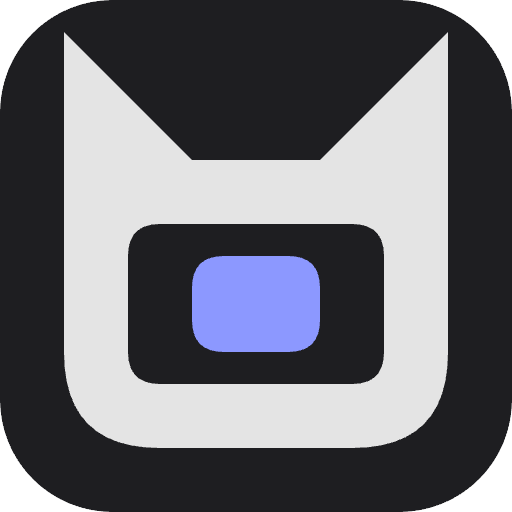
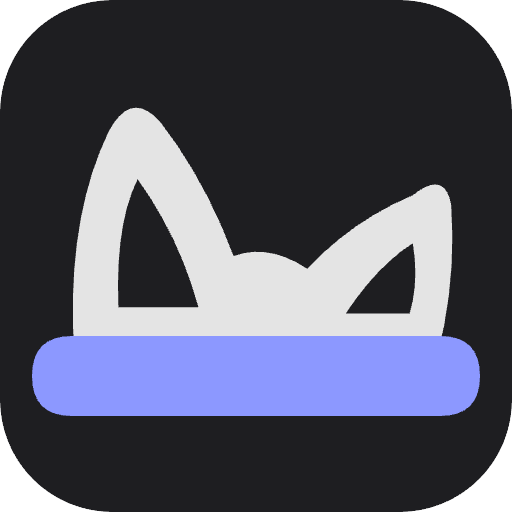
feat(brand): draw the peeking-ears mark
The cat's head with a window for a face read as a generic bot icon.
The mark is now two ears peeking over the cord, mid-glance: the near
ear upright, the far one smaller and tipped outward, both rising from
behind the cord in the accent.

- mark-paths.ts holds the crown (both ears joined by the curve of the
  head), the inner ears and the cord. The mark has two optical sizes:
  from 48px up the inner ears are cut out, which is what makes the
  shapes read as ears; below that they would blur, so the plain crown
  is drawn. earsPath(size) chooses.
- markNode draws the size it is asked for, so the favicon's 16 and 32
  are the crown and its 48, the app icons, the maskable icon and the
  Apple icon are notched. The icons are regenerated on the graphite
  tile.
- The sidebar and toolbar mark draws the crown, and swaps in the
  notched ears by CSS where the screen's density gives them 48 device
  pixels.
- icon.svg, drawn by browsers at tab size, is the crown.
- The OG card's mark follows markNode, and DESIGN_REVISION moves to 3
  so every card URL changes.

Verified: the 16px pixel spec checks the near ear's height, the far
ear lower, open space between them and at the crown's dip, the head
below it, no inner ear, the cord, and nothing below it; another checks
the inner ear is cut out at 48px. Two e2e tests check the sidebar mark
shows the crown at 1x and the notched ears at 3x. lint, format:check,
typecheck, test:coverage, build and test:e2e pass.

diff --git a/src/lib/brand/mark.spec.ts b/src/lib/brand/mark.spec.ts
@@ -1,10 +1,10 @@
 import { describe, expect, it } from 'vitest'
 import { Root } from 'meo-canvas'
 import { markNode } from '@/lib/brand/mark'
-import { MARK_DARK, MARK_PATHS, markSvg } from '@/lib/brand/mark-paths'
+import { earsPath, MARK_DARK, MARK_PATHS, markSvg, NOTCH_MIN_SIZE } from '@/lib/brand/mark-paths'
 
-async function pixels16() {
-  const canvas = await Root({ width: 16, height: 16, children: markNode(16) })
+async function pixels(size: number) {
+  const canvas = await Root({ width: size, height: size, children: markNode(size) })
   try {
     return await canvas.toBuffer('raw')
   } finally {
@@ -12,34 +12,55 @@ async function pixels16() {
   }
 }
 
+const hex = (colour: string) => [1, 3, 5].map(i => parseInt(colour.slice(i, i + 2), 16))
+const near = (a: number[], b: number[]) => a.every((channel, i) => Math.abs(channel - b[i]) <= 8)
+const tile = hex(MARK_DARK.tile)
+const accent = hex(MARK_DARK.accent)
+
 describe('the mark at 16px', () => {
   // Each point sits in the middle of a grid square, so it lands on one whole pixel.
   const at = (raw: Uint8Array, x: number, y: number) => [...raw.subarray((y * 16 + x) * 4, (y * 16 + x) * 4 + 3)]
-  const hex = (colour: string) => [1, 3, 5].map(i => parseInt(colour.slice(i, i + 2), 16))
-  const near = (a: number[], b: number[]) => a.every((channel, i) => Math.abs(channel - b[i]) <= 8)
 
-  it('keeps the ears, the window and the core apart', async () => {
-    const raw = await pixels16()
-    const tile = hex(MARK_DARK.tile)
-    const accent = hex(MARK_DARK.accent)
-    const ink = at(raw, 2, 6)
+  it('reads as two ears of different heights behind the cord, not one shape', async () => {
+    const raw = await pixels(16)
+    const ink = at(raw, 4, 6)
 
     expect(near(ink, tile)).toBe(false)
-    expect(near(at(raw, 2, 2), ink)).toBe(true) // left ear
-    expect(near(at(raw, 13, 2), ink)).toBe(true) // right ear
-    expect(near(at(raw, 8, 2), tile)).toBe(true) // the crown between them
-    expect(near(at(raw, 4, 9), tile)).toBe(true) // the window
-    expect(near(at(raw, 7, 9), accent)).toBe(true) // the core
-    expect(near(at(raw, 8, 13), ink)).toBe(true) // the chin
+    expect(near(at(raw, 4, 4), ink)).toBe(true) // the near ear, standing tall
+    expect(near(at(raw, 4, 3), tile)).toBe(false) // …up to its tip
+    expect(near(at(raw, 12, 8), ink)).toBe(true) // the far ear, lower
+    expect(near(at(raw, 12, 4), tile)).toBe(true) // …with nothing above it at the near ear's height
+    expect(near(at(raw, 8, 3), tile)).toBe(true) // open sky between the ears
+    expect(near(at(raw, 8, 6), tile)).toBe(true) // the dip of the crown
+    expect(near(at(raw, 8, 9), ink)).toBe(true) // the head, below the dip
+    expect(near(at(raw, 4, 8), ink)).toBe(true) // no inner ear at this size
+    expect(near(at(raw, 8, 11), accent)).toBe(true) // the cord
+    expect(near(at(raw, 8, 14), tile)).toBe(true) // nothing below the cord
+  })
+})
+
+describe('the optical sizes', () => {
+  it('cuts the inner ears out from NOTCH_MIN_SIZE up', async () => {
+    const size = NOTCH_MIN_SIZE
+    const raw = await pixels(size)
+    // The middle of the near inner ear, at grid (4.7, 8.2).
+    const x = Math.floor(4.7 * (size / 16))
+    const y = Math.floor(8.2 * (size / 16))
+    expect(near([...raw.subarray((y * size + x) * 4, (y * size + x) * 4 + 3)], tile)).toBe(true)
+  })
+
+  it('draws the plain crown below NOTCH_MIN_SIZE and the notched ears from it', () => {
+    expect(earsPath(NOTCH_MIN_SIZE - 1)).toBe(MARK_PATHS.crown)
+    expect(earsPath(NOTCH_MIN_SIZE)).toBe(MARK_PATHS.crown + MARK_PATHS.inner)
   })
 })
 
 describe('markSvg', () => {
-  it('draws the same paths, and follows the colour scheme', () => {
+  it('draws the tab-size crown and the cord, and follows the colour scheme', () => {
     const svg = markSvg()
-    expect(svg).toContain(`d="${MARK_PATHS.head}"`)
-    expect(svg).toContain(`d="${MARK_PATHS.core}"`)
-    expect(svg).toContain('fill-rule="evenodd"')
+    expect(svg).toContain(`d="${MARK_PATHS.crown}"`)
+    expect(svg).toContain(`d="${MARK_PATHS.cord}"`)
+    expect(svg).not.toContain(MARK_PATHS.inner)
     expect(svg).toContain('@media (prefers-color-scheme:dark)')
   })
 })

diff --git a/src/lib/brand/mark-paths.ts b/src/lib/brand/mark-paths.ts
@@ -1,18 +1,33 @@
 /**
- * The mark: a cat's head whose face is a window, with the accent core inside. Drawn on a 16-unit grid
- * with whole-unit edges, so 16, 32, 48, 64, 192 and 512 land on whole pixels and the 16px favicon
- * keeps its ears, window and core apart.
+ * The mark: a cat's two ears peeking over the cord, mid-glance. The near ear stands upright, the far
+ * one is smaller and tipped outward, and both rise from behind the cord. Drawn on a 16-unit grid, so
+ * 16, 32, 48, 64, 192 and 512 land on whole pixels.
+ *
+ * It has two optical sizes. From 48px up the inner ears are cut out, which is what makes the shapes
+ * read as ears; below that the cut-outs would blur, so the crown's silhouette is drawn plain.
  *
  * Data only, so pages can draw it as inline SVG without loading meo-canvas; the meo-canvas node that
  * the icons and OG cards draw is in mark.ts.
  */
 export const MARK_VIEWBOX = [0, 0, 16, 16] as const
 
-/** The head with its window cut out (even-odd), and the core that sits in the window. */
+/** The smallest size, in device pixels, that draws the inner ears. */
+export const NOTCH_MIN_SIZE = 48
+
 export const MARK_PATHS = {
-  head: 'M2 11V1L6 5H10L14 1V11Q14 14 11 14H5Q2 14 2 11ZM5 7H11Q12 7 12 8V11Q12 12 11 12H5Q4 12 4 11V8Q4 7 5 7Z',
-  core: 'M7 8H9Q10 8 10 9V10Q10 11 9 11H7Q6 11 6 10V9Q6 8 7 8Z',
+  /** Both ears, joined by the curve of the head's crown between them. */
+  crown:
+    'M2.4 12Q1.9 7.2 3.4 4.1Q4.1 2.8 5 3.8Q6.4 5.6 7.3 8Q8.4 7.6 9.6 8.4Q11 6.9 12.9 6.1Q13.9 5.3 14.1 6.4Q14.3 9.3 13.4 12Z',
+  /** The inner ears, cut out of the crown (even-odd) at the larger size. */
+  inner: 'M3.7 9.6Q3.6 7 4.3 5.6Q5.6 7.4 6.2 9.6ZM10.8 9.8Q11.8 8.3 12.9 7.6Q13.1 8.8 12.8 9.8Z',
+  /** The cord they peek over, drawn in front of them. */
+  cord: 'M2.25 10.5H13.75Q15 10.5 15 11.75Q15 13 13.75 13H2.25Q1 13 1 11.75Q1 10.5 2.25 10.5Z',
 } as const
+
+/** The ears' path for a size in device pixels: notched from NOTCH_MIN_SIZE up, the plain crown below. */
+export function earsPath(size: number): string {
+  return size >= NOTCH_MIN_SIZE ? MARK_PATHS.crown + MARK_PATHS.inner : MARK_PATHS.crown
+}
 
 /** Tile corner radius, in grid units. */
 export const MARK_TILE_RADIUS = 3.5
@@ -23,20 +38,20 @@ export interface MarkColours {
   accent: string
 }
 
-/** The dark tile every raster icon uses: it holds on light and dark tab strips alike. */
+/** The graphite tile the favicon and app icons use: it holds on light and dark tab strips alike. */
 export const MARK_DARK: MarkColours = { tile: '#1E1E21', ink: 'rgba(255,255,255,0.88)', accent: '#8C98FF' }
 
 /**
- * The mark as SVG, following the reader's colour scheme: ink and accent swap to the light palette,
- * and the tile is left out so the browser's own tab colour shows around the head.
+ * The mark as SVG, following the reader's colour scheme, for the favicon: browsers draw it at tab
+ * size, so it is the plain crown. The tile is left out so the tab's own colour shows around it.
  */
 export function markSvg(): string {
   return [
     `<svg xmlns="http://www.w3.org/2000/svg" viewBox="${MARK_VIEWBOX.join(' ')}">`,
-    '<style>.h{fill:#161618;fill-opacity:.88}.c{fill:#4B5BD7}',
-    '@media (prefers-color-scheme:dark){.h{fill:#fff}.c{fill:#8C98FF}}</style>',
-    `<path class="h" fill-rule="evenodd" d="${MARK_PATHS.head}"/>`,
-    `<path class="c" d="${MARK_PATHS.core}"/>`,
+    '<style>.e{fill:#161618;fill-opacity:.88}.c{fill:#4B5BD7}',
+    '@media (prefers-color-scheme:dark){.e{fill:#fff}.c{fill:#8C98FF}}</style>',
+    `<path class="e" d="${MARK_PATHS.crown}"/>`,
+    `<path class="c" d="${MARK_PATHS.cord}"/>`,
     '</svg>',
   ].join('')
 }

diff --git a/src/components/shell/brand.ts b/src/components/shell/brand.ts
@@ -1,10 +1,27 @@
-import { Span, Svg, SvgPath } from '@meonode/ui'
+import { Span, Svg, SvgPath, type ThemedCSSObject } from '@meonode/ui'
 import { focusCss } from '@/lib/design/css'
-import { MARK_PATHS, MARK_VIEWBOX } from '@/lib/brand/mark-paths'
+import { earsPath, MARK_PATHS, MARK_VIEWBOX, NOTCH_MIN_SIZE } from '@/lib/brand/mark-paths'
 import { Link } from '@/components/shell/links'
 
-/** The mark, drawn in the current palette's ink and accent. */
+/**
+ * The mark, drawn in the current palette's ink and accent, at the optical size for the device
+ * pixels it covers: below NOTCH_MIN_SIZE the plain crown, swapped for the notched ears on a screen
+ * dense enough to draw them.
+ */
 export function Mark(size = 20) {
+  const ears = (d: string, key: string, css?: ThemedCSSObject) =>
+    SvgPath({ key, d, fillRule: 'evenodd', fill: 'theme.ink.primary', css })
+  const density = NOTCH_MIN_SIZE / size
+  const layers =
+    size >= NOTCH_MIN_SIZE
+      ? [ears(earsPath(size), 'ears')]
+      : [
+          ears(MARK_PATHS.crown, 'crown', { [`@media (min-resolution: ${density}dppx)`]: { display: 'none' } }),
+          ears(earsPath(NOTCH_MIN_SIZE), 'notched', {
+            display: 'none',
+            [`@media (min-resolution: ${density}dppx)`]: { display: 'inline' },
+          }),
+        ]
   return Svg({
     width: size,
     height: size,
@@ -12,10 +29,7 @@ export function Mark(size = 20) {
     'aria-hidden': true,
     focusable: false,
     flexShrink: 0,
-    children: [
-      SvgPath({ key: 'head', d: MARK_PATHS.head, fillRule: 'evenodd', fill: 'theme.ink.primary' }),
-      SvgPath({ key: 'core', d: MARK_PATHS.core, fill: 'theme.accent.default' }),
-    ],
+    children: [...layers, SvgPath({ key: 'cord', d: MARK_PATHS.cord, fill: 'theme.accent.default' })],
   })
 }
 

diff --git a/e2e/shell.spec.ts b/e2e/shell.spec.ts
@@ -1,4 +1,4 @@
-import { expect, test } from '@playwright/test'
+import { expect, test, type Page } from '@playwright/test'
 
 test('the first Tab reaches the skip link, which leads to the content', async ({ page }) => {
   await page.goto('/')
@@ -86,4 +86,30 @@ test.describe('on a phone', () => {
     await expect(sheet).toBeHidden()
     await expect(open).toBeFocused()
   })
+})
+
+test.describe('the mark in the sidebar', () => {
+  // The visible ears path: the plain crown, or the crown with the inner ears cut out.
+  const visibleEars = (page: Page) =>
+    page
+      .locator('aside a[href="/"] svg path[fill-rule="evenodd"]')
+      .evaluateAll(paths =>
+        paths.filter(path => getComputedStyle(path).display !== 'none').map(path => path.getAttribute('d') ?? ''),
+      )
+
+  for (const [scale, notched] of [
+    [1, false],
+    [3, true],
+  ] as const) {
+    test(`draws the ${notched ? 'notched' : 'plain'} ears at ${scale}x`, async ({ browser }) => {
+      const context = await browser.newContext({ deviceScaleFactor: scale })
+      const page = await context.newPage()
+      await page.goto('/')
+      const ears = await visibleEars(page)
+      expect(ears).toHaveLength(1)
+      // The inner ears are the second and third subpaths of the notched drawing.
+      expect(ears[0].split('M').length - 1).toBe(notched ? 3 : 1)
+      await context.close()
+    })
+  }
 })

diff --git a/src/lib/brand/mark.ts b/src/lib/brand/mark.ts
@@ -1,7 +1,17 @@
 import { Box, Path } from 'meo-canvas'
-import { MARK_DARK, MARK_PATHS, MARK_TILE_RADIUS, MARK_VIEWBOX, type MarkColours } from '@/lib/brand/mark-paths'
+import {
+  earsPath,
+  MARK_DARK,
+  MARK_PATHS,
+  MARK_TILE_RADIUS,
+  MARK_VIEWBOX,
+  type MarkColours,
+} from '@/lib/brand/mark-paths'
 
-/** The mark as a meo-canvas node, `size` pixels square; `radius` in grid units, 0 for a full bleed. */
+/**
+ * The mark as a meo-canvas node, `size` pixels square, at the optical size for that many pixels;
+ * `radius` in grid units, 0 for a full bleed.
+ */
 export function markNode(size: number, colours: MarkColours = MARK_DARK, radius = MARK_TILE_RADIUS) {
   const layer = (d: string, fill: string, fillRule: 'nonzero' | 'evenodd') =>
     Path({
@@ -21,6 +31,6 @@ export function markNode(size: number, colours: MarkColours = MARK_DARK, radius 
     overflow: 'hidden',
     backgroundColor: colours.tile,
     borderRadius: (radius * size) / 16,
-    children: [layer(MARK_PATHS.head, colours.ink, 'evenodd'), layer(MARK_PATHS.core, colours.accent, 'nonzero')],
+    children: [layer(earsPath(size), colours.ink, 'evenodd'), layer(MARK_PATHS.cord, colours.accent, 'nonzero')],
   })
 }

diff --git a/src/lib/og/cards.ts b/src/lib/og/cards.ts
@@ -28,7 +28,7 @@ const CARDS: Record<string, Record<string, OgCard>> = {
 }
 
 /** Bumped when the card's drawing changes, so every URL changes with it. */
-const DESIGN_REVISION = 2
+const DESIGN_REVISION = 3
 
 export function findCard(line: string, id: string): OgCard | undefined {
   return Object.hasOwn(CARDS, line) && Object.hasOwn(CARDS[line], id) ? CARDS[line][id] : undefined
